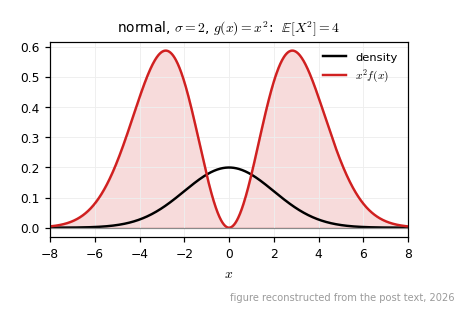
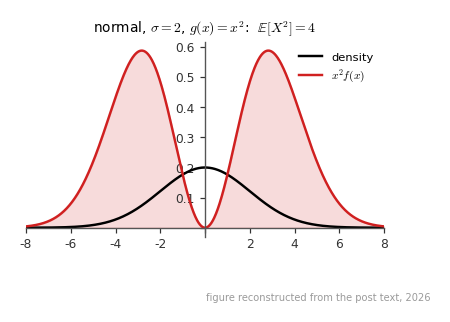
Route the three stragglers through the shared axes styling
p=15925, p=12480 and p=12495 drew their own frame and grid rather than
calling axes(), so they missed the Mathematica restyle. Caught by
building a contact sheet of all 72 reconstructions and looking at it.

diff --git a/_reconstruction/posts/p15925_expectation.py b/_reconstruction/posts/p15925_expectation.py
@@ -22,7 +22,7 @@ import numpy as np
 from scipy import stats
 from scipy.integrate import quad
 import matplotlib.pyplot as plt
-from figstyle import RED, GREY, save, check, paths_in
+from figstyle import RED, GREY, save, axes, check, paths_in
 
 P = paths_in("p=15925.html")
 SIZE = (4.2, 2.3)          # 300x163 as displayed
@@ -34,11 +34,7 @@ def continuous(dens, g, lo, hi, dest, title, gl):
     ax.plot(x, dens(x), color="black", lw=1.6, label="density")
     ax.plot(x, g(x) * dens(x), color=RED, lw=1.6, label=gl)
     ax.fill_between(x, 0, g(x) * dens(x), color=RED, alpha=0.16)
-    ax.axhline(0, color=GREY, lw=0.8)
-    ax.set_xlim(lo, hi)
-    ax.grid(True, color="#eeeeee", lw=0.6)
-    ax.tick_params(labelsize=8)
-    ax.set_xlabel("$x$", fontsize=9)
+    axes(ax, (lo, hi), None)
     ax.legend(fontsize=7.5, frameon=False, loc="upper right")
     ax.set_title(title, fontsize=9)
     save(fig, dest)
@@ -68,11 +64,7 @@ ax.vlines(k, 0, pmf, color="black", lw=1.0)
 ax.plot(k, pmf, "o", color="black", ms=3.4, label="mass")
 ax.vlines(k + 0.14, 0, k * pmf, color=RED, lw=1.0)
 ax.plot(k + 0.14, k * pmf, "o", color=RED, ms=3.4, label=r"$x\,p(x)$")
-ax.axhline(0, color=GREY, lw=0.8)
-ax.set_xlim(-0.6, 15.6)
-ax.grid(True, color="#eeeeee", lw=0.6)
-ax.tick_params(labelsize=8)
-ax.set_xlabel("$x$", fontsize=9)
+axes(ax, (-0.6, 15.6), None)
 ax.legend(fontsize=7.5, frameon=False, loc="upper right")
 ax.set_title(r"Poisson, $\lambda=4$:  $\mathbb{E}[X]=4$", fontsize=9)
 save(fig, P["poisson_mean.png"])

diff --git a/_reconstruction/posts/p12495_inverse_two.py b/_reconstruction/posts/p12495_inverse_two.py
@@ -17,7 +17,7 @@ sys.path.insert(0, os.path.dirname(os.path.dirname(os.path.abspath(__file__))))
 
 import numpy as np
 import matplotlib.pyplot as plt
-from figstyle import BLUE, RED, GREEN, GREY, save, check, paths_in
+from figstyle import BLUE, RED, GREEN, GREY, save, axes, check, paths_in
 
 P = paths_in("p=12495.html")
 A = np.arcsin(0.5)                 # pi/6
@@ -29,11 +29,7 @@ def sinframe(ax, lo, hi, ylo=-1.3, yhi=1.3):
     ax.plot(t, np.sin(t), color=BLUE, lw=1.8)
     ax.axhline(0.5, color=GREY, lw=1.2, ls="--")
     ax.text(hi, 0.56, r"$y=\frac{1}{2}$", ha="right", fontsize=10, color=GREY)
-    ax.set_xlim(lo, hi); ax.set_ylim(ylo, yhi)
-    ax.grid(True, color="#eeeeee", lw=0.6)
-    ax.axhline(0, color="#999999", lw=0.8)
-    ax.axvline(0, color="#999999", lw=0.8)
-    ax.tick_params(labelsize=8)
+    axes(ax, (lo, hi), (ylo, yhi))
 
 
 # --- firstsol.png (476x474): arcsin, and arcsin(1/2) ---------------------
@@ -46,11 +42,7 @@ ax.annotate(rf"$\arcsin\frac{{1}}{{2}}\approx{A:.2f}$", (0.5, A),
             color=RED)
 ax.plot([0.5, 0.5], [-1.8, A], color=RED, lw=0.9, ls=":")
 ax.plot([-1.05, 0.5], [A, A], color=RED, lw=0.9, ls=":")
-ax.set_xlim(-1.05, 1.05); ax.set_ylim(-1.8, 1.8)
-ax.grid(True, color="#eeeeee", lw=0.6)
-ax.axhline(0, color="#999999", lw=0.8)
-ax.axvline(0, color="#999999", lw=0.8)
-ax.tick_params(labelsize=8)
+axes(ax, (-1.05, 1.05), (-1.8, 1.8))
 ax.legend(fontsize=10, frameon=False, loc="upper left")
 save(fig, P["firstsol.png"])
 

diff --git a/_reconstruction/posts/p12480_inverse_one.py b/_reconstruction/posts/p12480_inverse_one.py
@@ -17,7 +17,7 @@ sys.path.insert(0, os.path.dirname(os.path.dirname(os.path.abspath(__file__))))
 
 import numpy as np
 import matplotlib.pyplot as plt
-from figstyle import BLUE, RED, GREEN, GREY, save, check, paths_in
+from figstyle import BLUE, RED, GREEN, GREY, save, axes, check, paths_in
 
 P = paths_in("p=12480.html")
 DOMAINS = [("all of $\\mathbb{R}$", (-2.2, 2.2), BLUE),
@@ -26,9 +26,7 @@ DOMAINS = [("all of $\\mathbb{R}$", (-2.2, 2.2), BLUE),
 
 
 def frame(ax):
-    ax.grid(True, color="#eeeeee", lw=0.6)
-    ax.axhline(0, color="#999999", lw=0.8)
-    ax.axvline(0, color="#999999", lw=0.8)
+    axes(ax, None, None, xlabel=None, ylabel=None)
     ax.tick_params(labelsize=7)
 
 
